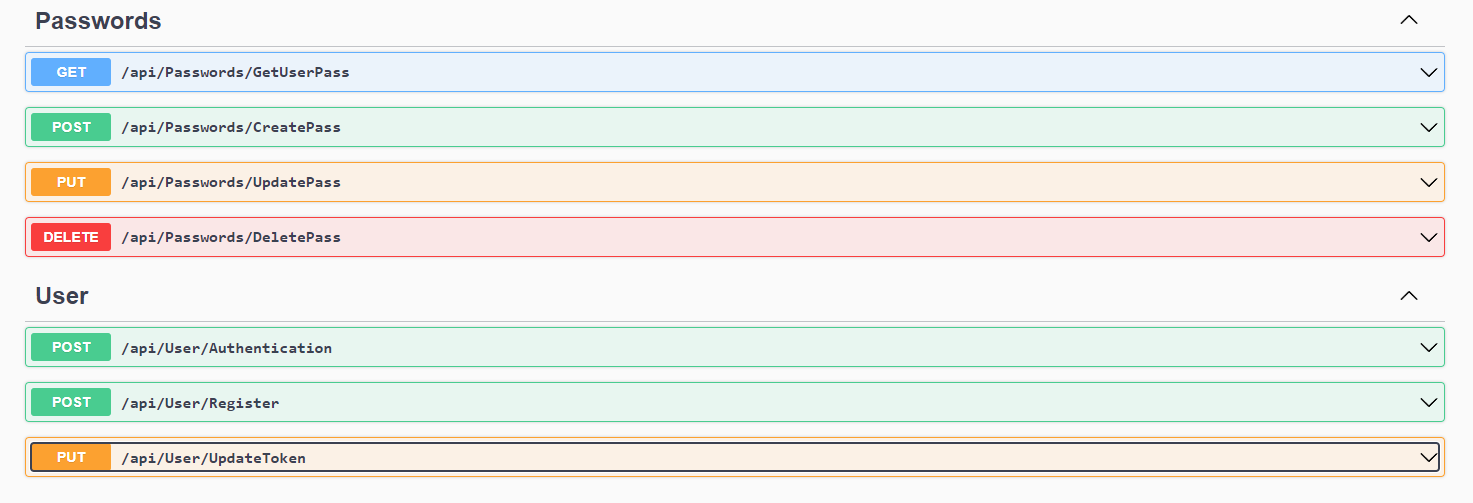
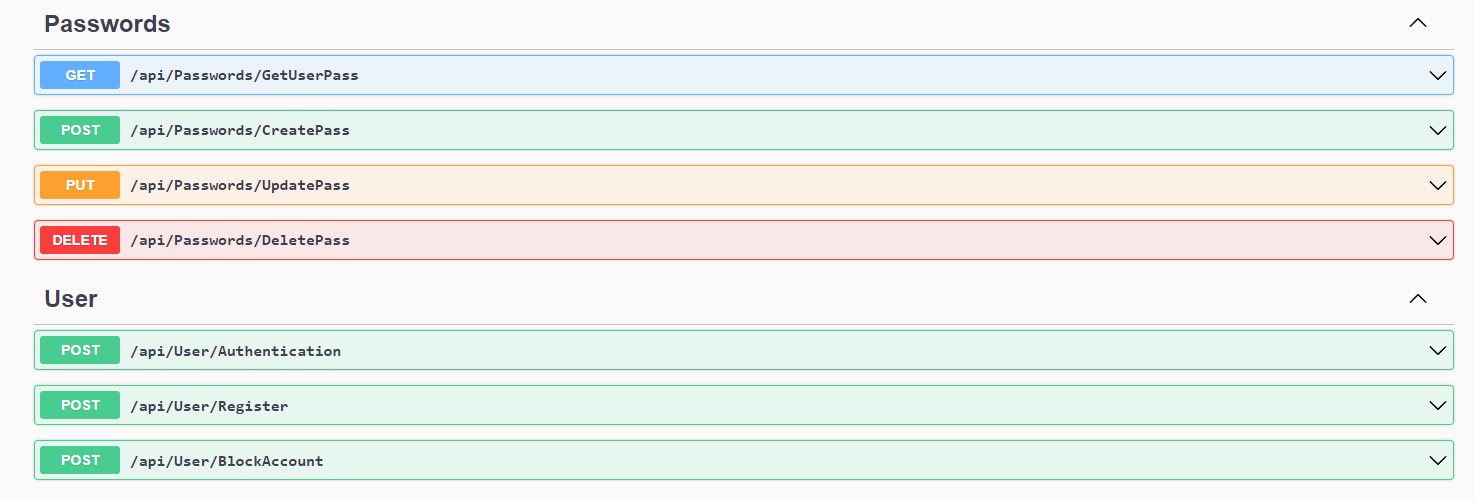
refactoring and update all README files

diff --git a/WebApi/README.md b/WebApi/README.md
@@ -1,7 +1,14 @@
 # WEB API
+
+## Установка и запуск
+```CMD
+git clone https://github.com/AxVol/Password_Manager_with_WebAPI.git
+cd {путь до папки с клонированным репозиторием}/WebApi
+docker-compose up --build
+```
+Если в системе отсутствует докер, придется поднять MS SQL Server своими ручками и изменить в appsettings.json строку отвечающую за подключение к БД
 ___
 Апи сделана на ASP.NET CORE 7 по все правилам с попытками приследовать чистую архитектуру
-
 #### В проекте для наглядности и удобства отладки функционала подключен Swagger 
 ___
 ##### Domain - Сущности
@@ -10,11 +17,13 @@ ___
 ##### Tests - Юнит тесты для сервисов
 ##### WebApi - Контроллеры
 ___
-Поток данных происходит таким образом:
-Приходит JSON на контроллер -> Контроллер его обрабатывает, шифрует и добавляет в базу данных если это не get/delete запрос -> Формирует ответ в JSON и возвращает его пользователю, в случае ошибки посылает соответствующий статус код с описанием ошибки
+Поток данных происходит таким образом:   
+Приходит JSON на контроллер -> Контроллер его обрабатывает и проверяет JWT токен, шифрует и добавляет в базу данных пароль/юзера если это не get/delete запрос -> Формирует ответ в JSON и возвращает его пользователю, в случае ошибки посылает соответствующий статус код с описанием ошибки   
 
-api/User - Авторизирует/Создает пользователя возвращая его секретный токен для дальнейщего общения с API
-api/Passwords - Вовращает JSON вместе с сериализированым туда паролем
+При большом количестве ошибок при попытке входа, пользователь блокируется на 30 минут
+
+api/User - Авторизирует/Создает пользователя возвращая его JWT-токен для данной сессии общения с API   
+api/Passwords - Вовращает JSON вместе с сериализированым туда паролем   
 
 Пути которые принимает API, их названия передают суть их действия
 ![Иллюстрация к проекту](images/Screenshot_1.png)

diff --git a/README.md b/README.md
@@ -5,10 +5,11 @@ ___
 ![.NET](https://img.shields.io/badge/-.NET_7-000278?style=for-the-badge&logo=.NET)
 ![NET](https://img.shields.io/badge/-ASP.NET_CORE-000278?style=for-the-badge&logo=.NET)
 ![MSSQLSERVER](https://img.shields.io/badge/-MS_SQL_SERVER-000278?style=for-the-badge&logo=microsoft-sql-server)
+![DOCKER](https://img.shields.io/badge/-DOCKER-000278?style=for-the-badge&logo=docker)
 ![.NET](https://img.shields.io/badge/-WPF-000278?style=for-the-badge&logo=.NET)
 ___
 ## Краткое описание проекта
-Парольный менеджер который существует в виде wpf клиента который общается с API на asp.net core, на стороне клиента пользователь может хранить свои пароли с логинами(создавать, обновлять, удалять их), для входа в клиент надо зарегистрироваться/авторизоваться, после чего данные отправляются на сервер(!ВАЖНО, никакие данные не храняться на устройстве клиента), где шифруются и помещаются в базу данных 
+Проект состоящий из облачного сервиса с хранением паролей в виде API и десктоп клиента который с ней общается, исключительно по https и внедренных JWT-токенов из-за специфики передаваемых данных, все шифрования и перемещения происходят на стороне API, а не клиента
 ___
 ### Подробные README
 [Web Api](WebApi/README.md)

diff --git a/Desktop client/README.md b/Desktop client/README.md
@@ -7,8 +7,9 @@ ___
 ##### Services - Бизнес логика
 ##### ViewModel - Посредник между вьюхами и сервисами
 ##### View - UI
+##### Behaviors - кастомное поведения для объектов на view
 ___
-Клиент сделан асинхронно чтобы он не зависал пока идет обработка запроса на сервер и его ответа, одновременно с этим отключая кнопки UI чтобы пользователь не мог отправлять кучу одинаковых запросов думая что кнопка не сработала
+Клиент сделан асинхронно чтобы он не зависал пока идет отправка запроса на сервер и его обработка с ответом, одновременно с этим отключая кнопки UI чтобы пользователь не мог отправлять кучу одинаковых запросов думая что кнопка не сработала
 
 Страница логина
 ![Иллюстрация к проекту](images/Screenshot_1.png)
